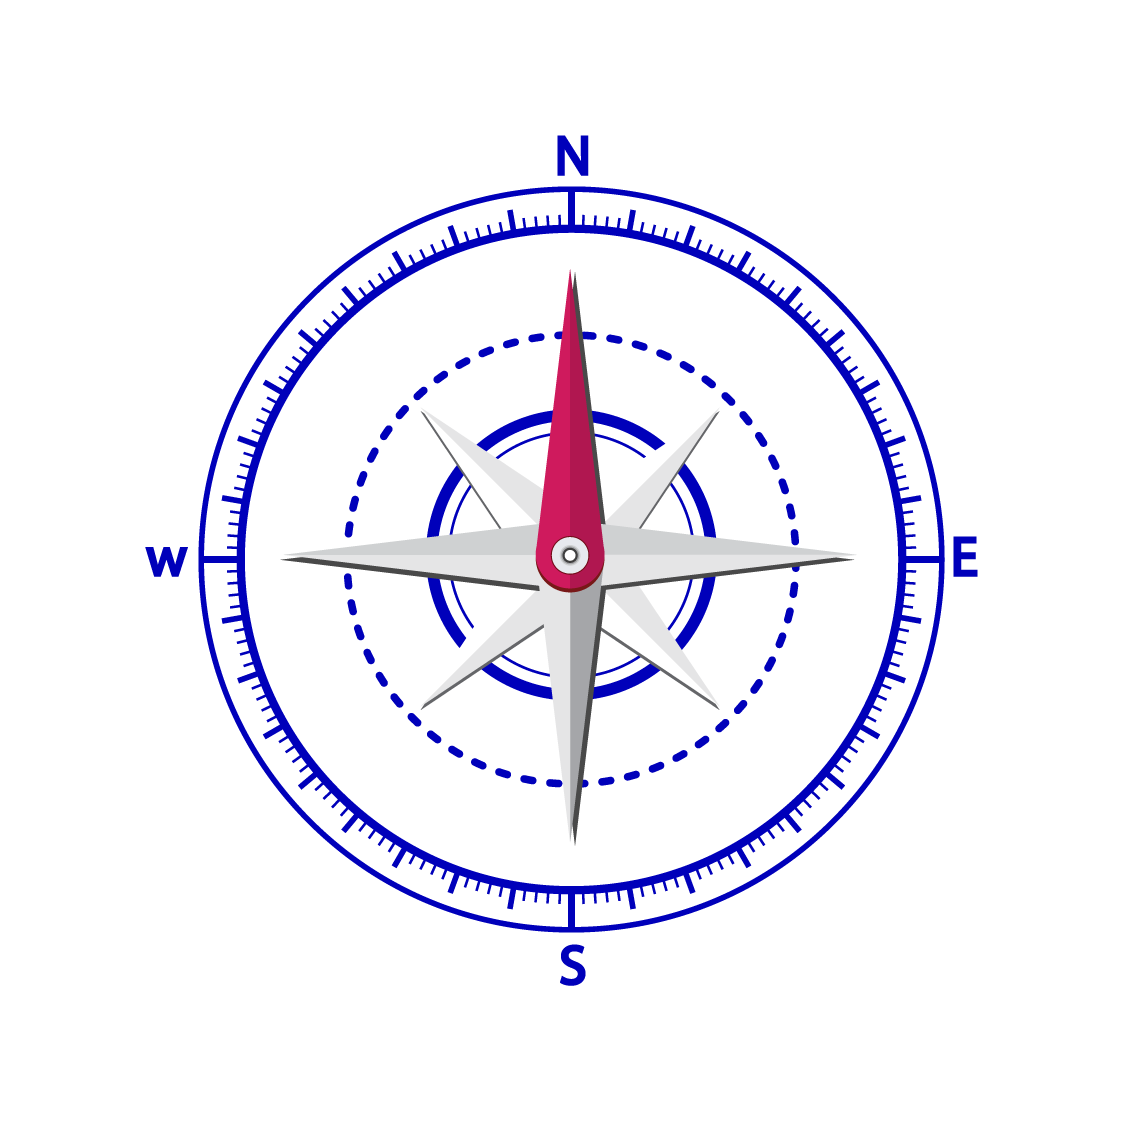
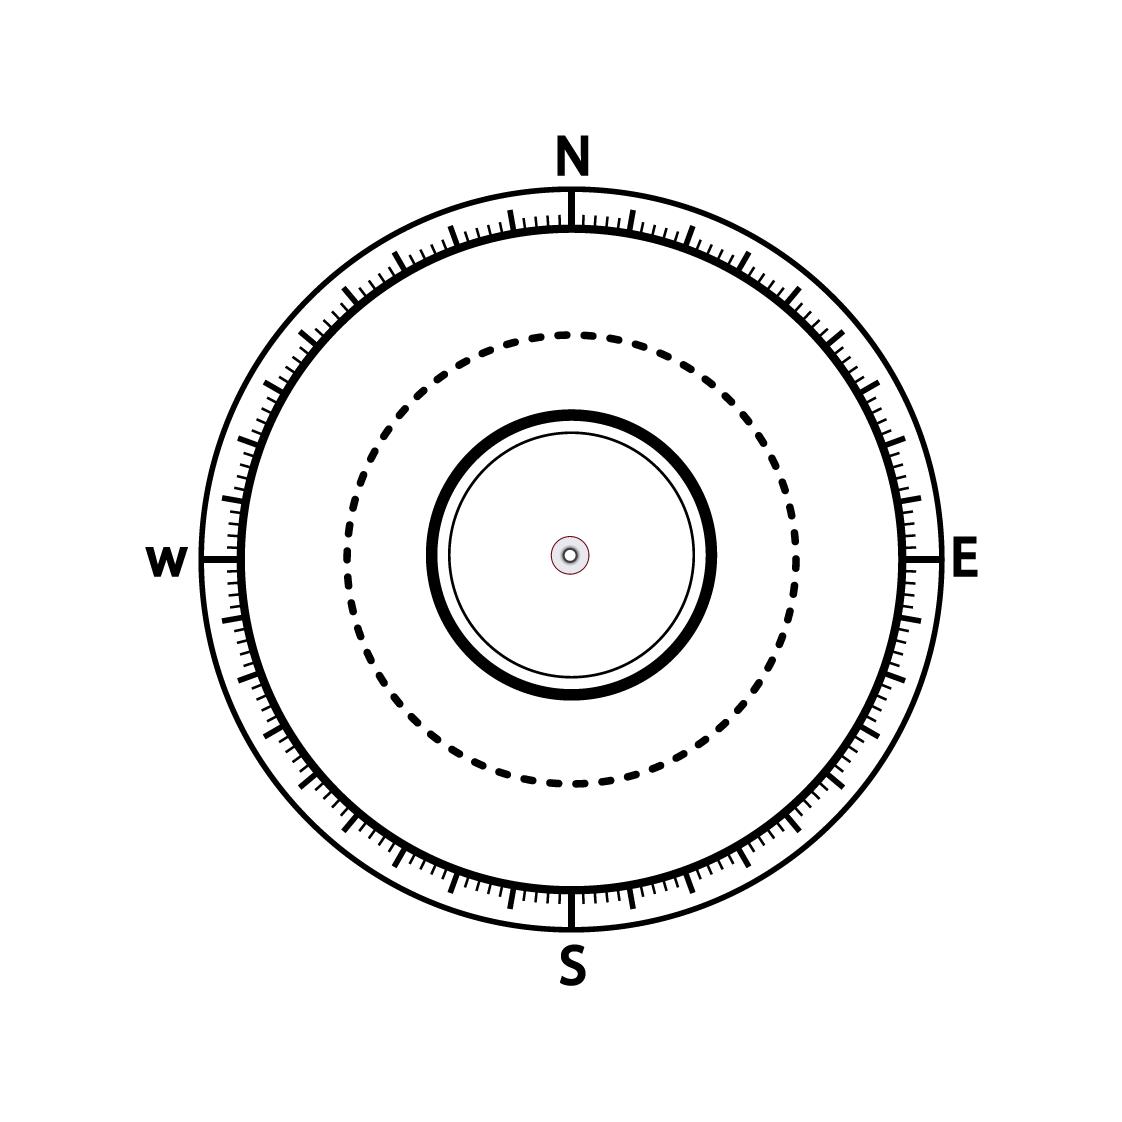
Add Qibla Compass and WebView integration

diff --git a/lib/main.dart b/lib/main.dart
@@ -3,99 +3,7 @@ import 'package:flutter/material.dart';
 import 'package:flutter_compass/flutter_compass.dart';
 import 'package:geolocator/geolocator.dart';
 import 'package:vector_math/vector_math.dart' as vm;
-import 'package:webview_flutter/webview_flutter.dart';
 
-void main() {
-  runApp(const TapItApp());
-}
-
-class TapItApp extends StatelessWidget {
-  const TapItApp({super.key});
-
-  @override
-  Widget build(BuildContext context) {
-    return MaterialApp(
-      title: 'TapIt',
-      debugShowCheckedModeBanner: false,
-      theme: ThemeData(
-        colorScheme: ColorScheme.fromSeed(seedColor: Colors.teal),
-        useMaterial3: true,
-      ),
-      home: const HomeNavigation(),
-    );
-  }
-}
-
-class HomeNavigation extends StatefulWidget {
-  const HomeNavigation({super.key});
-
-  @override
-  State<HomeNavigation> createState() => _HomeNavigationState();
-}
-
-class _HomeNavigationState extends State<HomeNavigation> {
-  int _selectedIndex = 0;
-
-  final List<Widget> _pages = [
-    const WebViewPage(),
-    const QiblaCompass(),
-  ];
-
-  @override
-  Widget build(BuildContext context) {
-    return Scaffold(
-      body: _pages[_selectedIndex],
-      bottomNavigationBar: BottomNavigationBar(
-        currentIndex: _selectedIndex,
-        selectedItemColor: Colors.teal,
-        unselectedItemColor: Colors.grey,
-        onTap: (index) {
-          setState(() => _selectedIndex = index);
-        },
-        items: const [
-          BottomNavigationBarItem(
-            icon: Icon(Icons.public),
-            label: 'Website',
-          ),
-          BottomNavigationBarItem(
-            icon: Icon(Icons.explore),
-            label: 'Qibla',
-          ),
-        ],
-      ),
-    );
-  }
-}
-
-class WebViewPage extends StatefulWidget {
-  const WebViewPage({super.key});
-
-  @override
-  State<WebViewPage> createState() => _WebViewPageState();
-}
-
-class _WebViewPageState extends State<WebViewPage> {
-  late final WebViewController _controller;
-
-  @override
-  void initState() {
-    super.initState();
-    final controller = WebViewController()
-      ..setJavaScriptMode(JavaScriptMode.unrestricted)
-      ..setBackgroundColor(const Color(0x00000000))
-      ..loadRequest(Uri.parse('https://nfctapit.uk'));
-    _controller = controller;
-  }
-
-  @override
-  Widget build(BuildContext context) {
-    return Scaffold(
-      body: SafeArea(child: WebViewWidget(controller: _controller)),
-    );
-  }
-}
-
-// QIBLA COMPASS PAGE
 class QiblaCompass extends StatefulWidget {
   const QiblaCompass({super.key});
 
@@ -155,9 +63,23 @@ class _QiblaCompassState extends State<QiblaCompass> {
       body: Center(
         child: _heading == null || _qiblaDirection == null
             ? const CircularProgressIndicator()
-            : Transform.rotate(
-                angle: vm.radians(qiblaAngle),
-                child: Image.asset('assets/compass.png', width: 250),
+            : Stack(
+                alignment: Alignment.center,
+                children: [
+                  Transform.rotate(
+                    angle: vm.radians(qiblaAngle),
+                    child: Image.asset('assets/compass.png', width: 250),
+                  ),
+                  // 🕋 The Kaaba direction arrow
+                  Image.asset('assets/kaaba_arrow.png', width: 80),
+                  const Positioned(
+                    bottom: 50,
+                    child: Text(
+                      "🕋 Face this direction for the Kaaba",
+                      style: TextStyle(fontSize: 16, fontWeight: FontWeight.bold),
+                    ),
+                  ),
+                ],
               ),
       ),
     );
